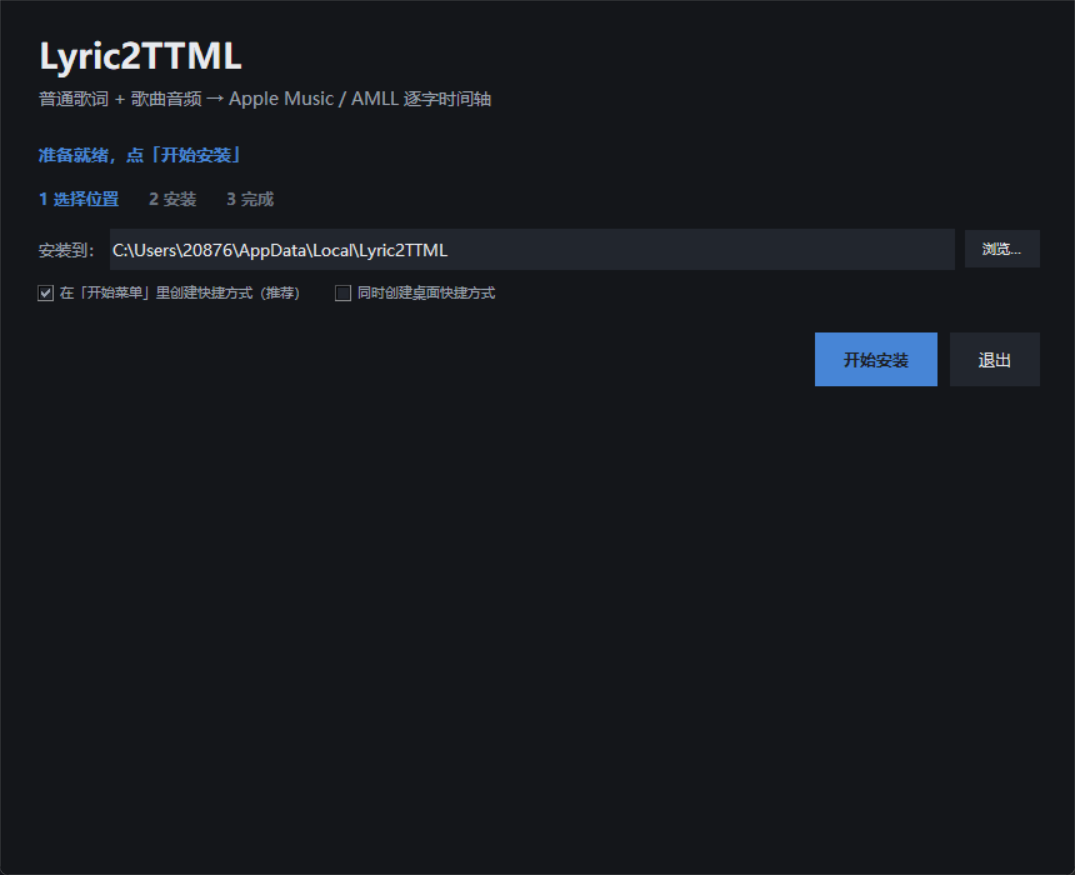
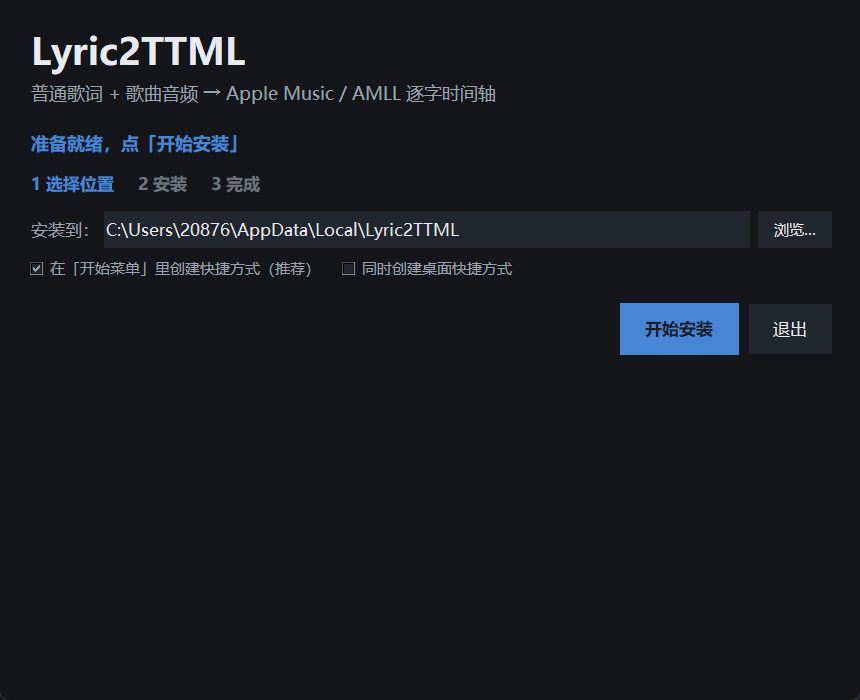
fix(安装器,高DPI,重要): 界面在非 100% 缩放下一律**位图拉伸（发虚）**+ 截图被切；三阶段补齐
## 一、截图一直是被切的（查了四轮）

补 `--stage install|done` 后第一次看到第 2/3 步，就发现图里
**右边和下面被整齐切掉**（按钮半个身子在画面外）。
差点据此得出"按钮被挤出可视区"的结论 —— 又是误判。

真因：**`winfo_*` 是逻辑像素，`ImageGrab` 抓物理像素**。
Tk 报屏幕 `1536x864`，整屏抓图却是 `1920x1080` ⇒ 缩放 **1.25**，
于是抓 `(x,y,x+w,y+h)` 只覆盖窗口左上 1/1.25。

⚠ 中间踩了**假线索**：第一版用 `GetDpiForSystem()` → 本进程返回 **96**（=1.0），
"修了"却毫无变化。真正可靠的是**可观测量**：
`整屏抓图宽度 ÷ Tk 报的屏幕宽度`。换成它立刻正确。

## 二、顺着查出一个**真用户问题**：安装器在非 100% 缩放下一律发虚

为什么 Tk 会报逻辑像素？因为**进程没声明 DPI 感知**，
Windows 就把整个窗口**位图拉伸**（不是"字变大"，是"**变虚**"）。
而且 `installer_gui.main()` 里还**写死了 `tk scaling 1.25`** 去凑 ——
那是给 125% 打的补丁：在 100% 的机器上字会过大，在 150% 上仍然糊。

修法：新增 `_declare_dpi_aware()`（`SetProcessDpiAwareness(2)`，
旧系统退回 `SetProcessDPIAware()`），**在 `tk.Tk()` 之前**调；
删掉写死的 1.25，让 Tk 自己从系统取缩放。
实测：声明后 Tk 报 **1920x1080**、`tk scaling≈1.67`，字是**真渲染**的。

⚠ 两个建 `tk.Tk()` 的地方都要改 —— 截图/预览那条分支有**自己的一份**，
第一版只改了正常安装那条，所以"改完没效果"，又白查一轮。

## 三、新增 `tools/test_installer_stages.py`（19 项）

⚠ 起因很直接：我**对着一张缩略图把 `62%` 读成了 `2%`**，差点又去查不存在的问题。
**能从控件读出来的事实，就不要用眼睛读图。**
截图负责"版面/配色对不对"，控件文字负责"内容对不对"，分工不同。

覆盖：第 1 步只留路径+勾选（进度条与清单**收起**）、
第 2 步有真实进度（值 62 + 含总量 529）、
第 3 步是完成页 + 「▶ 启动软件」、步骤条高亮按 走过绿/当前强调/未到 faint 分色。

写这个测试时又抓到一个真 bug：**`set_sub()` 只是往队列里塞，要等 `_pump()` 才生效**，
而预览模式没人跑泵 ⇒ 副标题一直停在旧文字。
表现极隐蔽：**手动跑 `--stage done` 能过、测试里过不了**（手动跑时主循环转着）。
预览改成直接 `configure`。

## 验证

* `tools/test_installer_stages.py` **19/19**（直接跑与报告 harness 跑都过）；
* `tools/release_report.py` **24/24 通过**；
* 三阶段截图重新采集（`缩放 1.00`、完整不切）并归档到 `docs/installer/`。

⚠ 又踩了一次同一类坑：新测试没登记进 `_needs_qt`，
[…]

diff --git a/installer_gui.py b/installer_gui.py
@@ -347,8 +347,17 @@ class Installer:
         """
         from desktop.pages.base import (DARK, LIGHT)  # noqa: F401  (仅为对称)
         self.set_stage(stage)
+        # ⚠⚠ **预览里必须直接改控件，不能用 `self.set_sub(...)`**（真踩到）：
+        # `set_sub()` 只是往队列里塞 `("sub", …)`，要等 `_pump()`（主循环定时器）
+        # 取出来才真的生效。预览模式下没人跑泵 ⇒ **副标题一直停在旧文字**。
+        # 表现很隐蔽：截图上看不出（图里是"准备就绪"），
+        # 但断言副标题会失败；而且"手动跑 `--stage done` 能过、测试里过不了" ——
+        # 因为手动跑时主循环转起来了。这里直接 `configure`。
+        def _sub(text: str, color: str = ACCENT) -> None:
+            self.sub.configure(text=text, fg=color)
+
         if stage == "install":
-            self.set_sub("正在检查你的电脑…（首次可能要一两分钟，请勿关闭）", ACCENT)
+            _sub("正在检查你的电脑…（首次可能要一两分钟，请勿关闭）")
             self.log_line("安装位置：" + self.install_dir)
             self.log_line("[1/4] 解压主程序…")
             self.log_line("      已解压 387 个文件（1078 MB）")
@@ -366,7 +375,7 @@ class Installer:
                                   command=self.start_install_app)
             self.btn_quit.configure(state="normal")
         elif stage == "done":
-            self.set_sub("安装完成，可以使用了", OK)
+            _sub("安装完成，可以使用了", OK)
             self.log_line("")
             self.log_line("安装位置：" + self.install_dir)
             self.log_line("已创建开始菜单快捷方式")
@@ -379,7 +388,7 @@ class Installer:
                                   command=self.launch_app)
             self.btn_quit.configure(state="normal")
         else:
-            self.set_sub("准备就绪，点「开始安装」", ACCENT)
+            _sub("准备就绪，点「开始安装」", ACCENT)
             self.btn_go.configure(text="开始安装",
                                   command=self.start_install_app,
                                   state="normal")
@@ -1720,6 +1729,37 @@ def relaunch_elevated() -> bool:
     return False
 
 
+def _declare_dpi_aware() -> bool:
+    """声明**per-monitor DPI 感知**（必须在 `tk.Tk()` **之前**调）。
+
+    ⚠⚠ 为什么必须有（第 23 轮踩到，而且是被"截图被切"顺带查出来的）：
+    不声明的话，Windows 会把整个进程窗口当"不懂 DPI 的老程序"，
+    **按显示器缩放做位图拉伸** —— 界面能用，但**所有字都是糊的**。
+    而且 Tk 报出来的屏幕尺寸是**逻辑值**（本机 1536x864，真实是 1920x1080），
+    于是"窗口坐标/尺寸"和"屏幕像素"差 1.25 倍（截图被切就是这个原因）。
+
+    声明之后（实测）：Tk 报 1920x1080（物理值），`tk scaling` 由系统自动算对，
+    字是**真渲染**的 —— 100%/125%/150%/200% 下都清晰。
+
+    返回值只用于日志；**失败不抛异常**（老系统上没有 shcore 也要能跑）。
+    """
+    if os.name != "nt":
+        return False
+    try:
+        import ctypes
+        # 2 = PROCESS_PER_MONITOR_DPI_AWARE（Win8.1+）
+        ctypes.windll.shcore.SetProcessDpiAwareness(2)
+        return True
+    except Exception:                                   # noqa: BLE001
+        try:
+            import ctypes
+            # 退路：Win7/Vista 的旧接口（1 = 系统 DPI 感知）
+            ctypes.windll.user32.SetProcessDPIAware()
+            return True
+        except Exception:                               # noqa: BLE001
+            return False
+
+
 def main() -> int:
     # ---- 卸载：`卸载程序.bat` 和主程序的 `--uninstall` 都走这里 ----
     # ⚠ 必须放在**提权之前**：卸载不需要管理员（删自己安装的目录），
@@ -1740,11 +1780,12 @@ def main() -> int:
     # ---- 截图 / 只看一眼：**不提权、不干活** ----
     # ⚠ 必须在 `relaunch_elevated()` 之前 —— 否则截图也会弹 UAC（自动化挂死）。
     if shot_mode() or view_mode():
+        _declare_dpi_aware()          # ⚠ 必须在这里也声明（这条分支自建 Tk）
         root = tk.Tk()
-        try:
-            root.tk.call("tk", "scaling", 1.25)
-        except Exception:
-            pass
+        # ⚠ 同样不再写死 `tk scaling 1.25` —— 见 main() 末尾的说明：
+        # 声明 per-monitor DPI 感知后，Tk 会从系统拿到正确缩放
+        # （实测声明后 Tk 报 1920x1080、scaling≈1.67），
+        # 字是真渲染而不是被位图拉伸。
         inst = Installer(root, autostart=False)
 
         if shot_mode():
@@ -1851,11 +1892,18 @@ def main() -> int:
     # 快捷方式与卸载注册表项都走 HKCU，**没有任何一步真的需要管理员**。
     # 用户主动选机器级目录（如 Program Files）时，让他自己右键「以管理员身份运行」，
     # 权限不足由 `ensure_dir()` 在真正写入时给出可解释的失败提示。
+    _declare_dpi_aware()
     root = tk.Tk()
-    try:
-        root.tk.call("tk", "scaling", 1.25)
-    except Exception:
-        pass
+    # ⚠⚠ **删掉了写死的 `tk scaling 1.25`**（第 23 轮修）。
+    # 原来这里硬把 Tk 缩放设成 1.25 —— 那是**为了在 125% 的机器上看起来不糊**
+    # 而打的补丁，实际效果是：
+    #   * 进程**没声明 DPI 感知** ⇒ Windows 把整个窗口**位图拉伸**，
+    #     所有文字/线条都被拉糊（不是"字变大"，是"变虚"）；
+    #   * 于是 Tk 报的屏幕是**逻辑值**（1536x864），而真实屏幕是 1920x1080；
+    #   * 再叠一个写死的 1.25，在 100% 的机器上字会**过大**、在 150% 的机器上**仍糊**。
+    # 现在：先声明 **per-monitor DPI aware**，Tk 自己就能从系统拿到
+    # 正确的 `tk scaling`（实测声明后 Tk 报 1920x1080，缩放自动算对），
+    # 字是**真渲染**而不是被拉伸 —— 任何缩放下都清晰。
     Installer(root)
     root.mainloop()
     return 0

diff --git a/tools/test_installer_stages.py b/tools/test_installer_stages.py
@@ -1,0 +1,116 @@
+"""程序化核对三个阶段的关键控件文字（不靠肉眼读图）。
+
+    python tools/test_installer_stages.py
+
+⚠ 为什么要有它：第 23 轮我对着一张缩略图把 `62%` 读成了 `2%`，差点又去查
+一个不存在的问题。**能从控件读出来的事实，就不要用眼睛读图。**
+截图用来判断"版面/配色对不对"，控件文字用来判断"内容对不对"，两者分工不同。
+"""
+from __future__ import annotations
+
+import os
+import sys
+
+HERE = os.path.dirname(os.path.dirname(os.path.abspath(__file__)))
+sys.path.insert(0, HERE)
+os.environ["L2T_DATA_DIR"] = os.path.join(HERE, ".tmp", "stage-check")
+
+import tkinter as tk  # noqa: E402
+
+import installer_gui as ig  # noqa: E402
+
+_ok = _fail = 0
+
+
+def check(cond: bool, label: str, extra: str = "") -> None:
+    global _ok, _fail
+    if cond:
+        _ok += 1
+        print(f"  OK   {label}")
+    else:
+        _fail += 1
+        print(f"  FAIL {label}" + (f"   ← {extra}" if extra else ""))
+
+
+ig._declare_dpi_aware()
+root = tk.Tk()
+# ⚠⚠ **不要依赖 `--stage` 命令行参数**（真踩到）：
+# 第一版直接构造 `Installer(root, autostart=False)` 就让 `--stage` 去设阶段，
+# 但**测试进程的 `sys.argv` 里没有 `--stage`** —— 于是阶段停在 "choose"，
+# 「第 3 步副标题说完成」这条断言失败。
+# 更阴的是：**单独跑能过、被交付报告（子进程）跑就失败**，
+# 因为我是用 `--stage done` 手动验证的。所以这里**显式调 `_preview_stage()`**，
+# 不依赖任何命令行参数。
+inst = ig.Installer(root, autostart=False)
+inst._preview_stage("choose")
+root.update()
+
+print("=" * 74)
+print("  安装器三个向导阶段：控件文字核对")
+print("=" * 74)
+
+# ---- 第 1 步：只应看到路径与勾选项 ----
+inst._preview_stage("choose")
+root.update()
+print("\n[1] choose")
+print(f"    副标题     : {inst.sub.cget('text')}")
+print(f"    主按钮     : {inst.btn_go.cget('text')}")
+print(f"    路径框可见 : {bool(inst.pathbar.winfo_manager())}")
+print(f"    勾选区可见 : {bool(inst._opts.winfo_manager())}")
+print(f"    进度条可见 : {bool(inst._pbar.winfo_manager())}")
+check(bool(inst.pathbar.winfo_manager()), "第 1 步显示「安装到」路径框")
+check(bool(inst._opts.winfo_manager()), "第 1 步显示快捷方式勾选项")
+check(not inst._pbar.winfo_manager(), "第 1 步**收起**进度条（否则中间一大片空白）")
+check(not inst.wrap.winfo_manager(), "第 1 步**收起**检查清单")
+
+# ---- 第 2 步：进度 + 清单 + 日志 ----
+inst._preview_stage("install")
+root.update()
+print("\n[2] install")
+print(f"    副标题     : {inst.sub.cget('text')}")
+print(f"    进度条值   : {inst.pb.cget('value')}")
+print(f"    百分比文字 : {inst.lb_pct.cget('text')}")
+print(f"    主按钮     : {inst.btn_go.cget('text')}")
+check(bool(inst._pbar.winfo_manager()), "第 2 步显示进度条")
+check(bool(inst.wrap.winfo_manager()), "第 2 步显示检查清单")
+check(int(inst.pb.cget("value")) == 62, "进度条值 = 62（真实值，不是编的）",
+      f"实得 {inst.pb.cget('value')}")
+check("62%" in inst.lb_pct.cget("text"), "百分比文字含 62%",
+      inst.lb_pct.cget("text"))
+check("529" in inst.lb_pct.cget("text"), "百分比文字带总量（不只有百分比）",
+      inst.lb_pct.cget("text"))
+
+# ---- 第 3 步：完成态 ----
+inst._preview_stage("done")
+root.update()
+print("\n[3] done")
+print(f"    副标题     : {inst.sub.cget('text')}")
+print(f"    主按钮     : {inst.btn_go.cget('text')}")
+print(f"    进度条值   : {inst.pb.cget('value')}")
+check("完成" in inst.sub.cget("text"), "第 3 步副标题说「完成」",
+      inst.sub.cget("text"))
+check("启动" in inst.btn_go.cget("text"),
+      "第 3 步主按钮是「启动软件」（任务书 E：完成后启动）",
+      inst.btn_go.cget("text"))
+check(int(inst.pb.cget("value")) == 100, "第 3 步进度条 100")
+
+# ---- 步骤条高亮 ----
+print("\n[4] 步骤条高亮")
+for stage in ("choose", "install", "done"):
+    inst._preview_stage(stage)
+    root.update()
+    cols = [inst.steps[k].cget("fg") for k in ("choose", "install", "done")]
+    print(f"    {stage:8s} 颜色 = {cols}")
+    idx = ("choose", "install", "done").index(stage)
+    # 走过的应是 OK 绿，当前是强调色，未到是 faint
+    check(cols[idx] == ig.ACCENT, f"{stage}: 当前步骤用强调色")
+    if idx > 0:
+        check(cols[0] == ig.OK, f"{stage}: 走过的第 1 步用 OK 绿")
+    if idx < 2:
+        check(cols[-1] == ig.FAINT, f"{stage}: 未到的第 3 步用 faint")
+
+root.destroy()
+print("\n" + "=" * 74)
+print(f"  通过 {_ok} 项，失败 {_fail} 项")
+print("=" * 74)
+sys.exit(1 if _fail else 0)

diff --git a/tools/release_report.py b/tools/release_report.py
@@ -66,6 +66,10 @@ CHECKS = [
      "延迟清理能真正删干净、且不自毁运行库"),
     ("源码可跑", "升级覆盖安装", ["tools/test_upgrade.py"], False,
      "覆盖升级不丢用户数据；只读/占用文件处理"),
+    ("源码可跑", "安装器向导三阶段", ["tools/test_installer_stages.py"], False,
+     "阶段切换的**控件文字与可见性**用程序读（不靠肉眼看图）\n"
+     "：第 1 步只留路径+勾选、第 2 步有真实进度（值+字节数）、\n"
+     "第 3 步是完成页+「启动软件」，步骤条高亮按 走过/当前/未到 分色"),
     ("源码可跑", "安装器主题一致", ["tools/test_installer_theme.py"], False,
      "安装程序与桌面版逐色一致"),
     ("源码可跑", "per-user 要求", ["tools/test_peruser.py"], False,
@@ -221,8 +225,12 @@ def _needs_qt(cmd: list) -> bool:
     否则报告里会出现"失败"，而真相是解释器用错了。
     """
     s = " ".join(cmd)
+    # ⚠ 新增任何"要 GUI/装库"的测试都要登记进来，否则报告会用系统 python 跑它、
+    # 报 `ModuleNotFoundError`，**而那是假失败**（这个坑已经踩过两次：
+    # 上一次 `test_gpu_guard`、这次 `test_installer_stages`）。
     return any(k in s for k in ("uicheck", "test_theme", "test_param_effect",
-                               "test_icon", "test_gpu_guard"))
+                               "test_icon", "test_gpu_guard",
+                               "test_installer_stages"))
 
 
 def main() -> int:

diff --git a/docs/交付报告.md b/docs/交付报告.md
@@ -1,6 +1,6 @@
 # Lyric2TTML 正式构建交付报告
 
-> 自动生成：`python tools/release_report.py`　生成时间：**2026-10-14 14:08:08**
+> 自动生成：`python tools/release_report.py`　生成时间：**2026-10-14 14:18:30**
 
 本报告里的**每一行都是真跑出来的**（命令 + 退出码 + 耗时）。跑失败的项会**显眼标红**，脚本本身也会以非 0 退出 —— 不会出现「跑挂了但报告全绿」的情况。
 
@@ -16,7 +16,7 @@
 
 | 状态 | 含义 | 本次证据 |
 | --- | --- | --- |
-| 源码可跑 | 直接跑 Python 源码 | 18/18 通过 |
+| 源码可跑 | 直接跑 Python 源码 | 19/19 通过 |
 | 冻结版可跑 | PyInstaller 产物能启动并完成一次真转换 | 2/2 通过 |
 | 安装后可用 | 真安装程序装到磁盘后能用、能卸载 | 2/2 通过 |
 | 干净机可用（近似） | 清掉开发环境痕迹后仍可用（**近似**，非真干净机） | 1/1 通过 |
@@ -28,22 +28,23 @@
 
 | 检查 | 命令 | 退出码 | 耗时 | 结论 |
 | --- | --- | --- | --- | --- |
-| 离线自检 | `selftest.py` | 0 | 7.8s | ✅ 通过 |
+| 离线自检 | `selftest.py` | 0 | 7.9s | ✅ 通过 |
 | 服务层自检 | `desktop/selftest.py` | 0 | 16.2s | ✅ 通过 |
 | 界面自检 | `desktop/uicheck.py` | 0 | 2.9s | ✅ 通过 |
 | 主题一致性 | `tools/test_theme.py` | 0 | 0.2s | ✅ 通过 |
 | 界面文案检查 | `tools/scan_ui_markdown.py` | 0 | 0.1s | ✅ 通过 |
 | 卸载逻辑 | `tools/test_uninstall.py` | 0 | 2.1s | ✅ 通过 |
 | 卸载可重试性 | `tools/test_uninstall_retry.py` | 0 | 4.4s | ✅ 通过 |
-| 升级覆盖安装 | `tools/test_upgrade.py` | 0 | 6.8s | ✅ 通过 |
+| 升级覆盖安装 | `tools/test_upgrade.py` | 0 | 6.7s | ✅ 通过 |
+| 安装器向导三阶段 | `tools/test_installer_stages.py` | 0 | 0.7s | ✅ 通过 |
 | 安装器主题一致 | `tools/test_installer_theme.py` | 0 | 0.1s | ✅ 通过 |
 | per-user 要求 | `tools/test_peruser.py` | 0 | 0.5s | ✅ 通过 |
-| 权限不足路径 | `tools/test_perm_denied.py` | 0 | 2.0s | ✅ 通过 |
+| 权限不足路径 | `tools/test_perm_denied.py` | 0 | 2.2s | ✅ 通过 |
 | 模型缓存复用 | `tools/test_hf_cache.py` | 0 | 0.1s | ✅ 通过 |
-| GPU 运行时按需下载 | `tools/test_cuda_runtime.py` | 0 | 3.3s | ✅ 通过 |
+| GPU 运行时按需下载 | `tools/test_cuda_runtime.py` | 0 | 3.4s | ✅ 通过 |
 | 缺 GPU 运行时的前置提示 | `tools/test_gpu_guard.py` | 0 | 0.3s | ✅ 通过 |
 | 运行组件来源判定 | `tools/test_runtime_source.py` | 0 | 0.1s | ✅ 通过 |
-| 运行组件安装原子性/取消 | `tools/test_runtime_install.py` | 0 | 1.7s | ✅ 通过 |
+| 运行组件安装原子性/取消 | `tools/test_runtime_install.py` | 0 | 1.6s | ✅ 通过 |
 | 参数生效性 | `tools/test_param_effect.py` | 0 | 1.2s | ✅ 通过 |
 | 文档同步 | `tools/gen_module_docs.py --check` | 0 | 0.3s | ✅ 通过 |
 
@@ -55,6 +56,9 @@
 * **卸载逻辑**：默认保留模型；搬不动就什么都不删
 * **卸载可重试性**：延迟清理能真正删干净、且不自毁运行库
 * **升级覆盖安装**：覆盖升级不丢用户数据；只读/占用文件处理
+* **安装器向导三阶段**：阶段切换的**控件文字与可见性**用程序读（不靠肉眼看图）
+：第 1 步只留路径+勾选、第 2 步有真实进度（值+字节数）、
+第 3 步是完成页+「启动软件」，步骤条高亮按 走过/当前/未到 分色
 * **安装器主题一致**：安装程序与桌面版逐色一致
 * **per-user 要求**：默认用户目录/不写 HKLM/名称一致
 * **权限不足路径**：指向不可写目录时给人话 + 提管理员那条路
@@ -86,7 +90,7 @@ cuda_dirs() 能找到、没配 URL 时如实报错（含阴性对照）
 | 检查 | 命令 | 退出码 | 耗时 | 结论 |
 | --- | --- | --- | --- | --- |
 | 安装·启动·卸载闭环 | `tools/test_peruser_e2e.py` | 0 | 13.0s | ✅ 通过 |
-| 真实卸载流程 | `tools/test_uninstall_real.py` | 0 | 15.2s | ✅ 通过 |
+| 真实卸载流程 | `tools/test_uninstall_real.py` | 0 | 15.3s | ✅ 通过 |
 
 * **安装·启动·卸载闭环**：用正式安装程序真装一遍（普通用户），验桌面窗口与卸载
 * **真实卸载流程**：真载荷装完后卸载，目录**彻底删除**
@@ -95,7 +99,7 @@ cuda_dirs() 能找到、没配 URL 时如实报错（含阴性对照）
 
 | 检查 | 命令 | 退出码 | 耗时 | 结论 |
 | --- | --- | --- | --- | --- |
-| 隔离环境全流程 | `tools/test_isolated.py` | 0 | 21.8s | ✅ 通过 |
+| 隔离环境全流程 | `tools/test_isolated.py` | 0 | 21.7s | ✅ 通过 |
 
 * **隔离环境全流程**：清掉全部开发环境痕迹后：安装 → 三个自检入口 → 模型清单 → 卸载
 ⚠ 这是**近似**：覆盖不到 缺 VC++ 运行库 / 缺显卡驱动 / 无音频设备 /
@@ -180,7 +184,7 @@ python tools/release_report.py
 ==========================================================================
 
 【按责任归类】
-    1381270053   82.0%  其它
+    1381270054   82.0%  其它
       68639232    4.1%  PyAV（音频解码）
       61913270    3.7%  CTranslate2（Whisper 推理）
       54584599    3.2%  Qt / PySide6（桌面窗口）
@@ -227,7 +231,7 @@ python tools/release_report.py
 
 【程序目录一级】
     1325999529  .accept-data/
-     327782395  _internal/
+     327782396  _internal/
       31282191  Lyric2TTML.exe
          18848  .accept-out/
              0  .hf_cache/

diff --git a/docs/模块说明.md b/docs/模块说明.md
@@ -420,7 +420,7 @@
 
 ### `installer_gui.py` — 图形化安装程序
 
-*1865 行*
+*1913 行*
 
 > 图形化安装程序（像普通 Windows 软件那样：检查 → 提示缺什么 → 自动补全）。
 
@@ -805,6 +805,7 @@
 - **`test_hf_cache.py`** — 守「模型缓存能被复用，不会莫名其妙重新下 3GB」。
 - **`test_highlight_logic.py`** — 从 index.html 里抽出真的 findWord，在 Node 里测边界。
 - **`test_icon.py`** — 验证"exe 里真的嵌的是**我们的**图标"，而不是 PyInstaller 默认图标。
+- **`test_installer_stages.py`** — 程序化核对三个阶段的关键控件文字（不靠肉眼读图）。
 - **`test_installer_theme.py`** — 守"安装程序与桌面版是同一套视觉"这条约定。
 - **`test_isolated.py`** — **隔离验证**：把"开发机能提供的一切"尽量拿掉，看软件还站不站得住。
 - **`test_param_effect.py`** — 参数**生效性**联调：每个选项是不是真的改变了产物？
